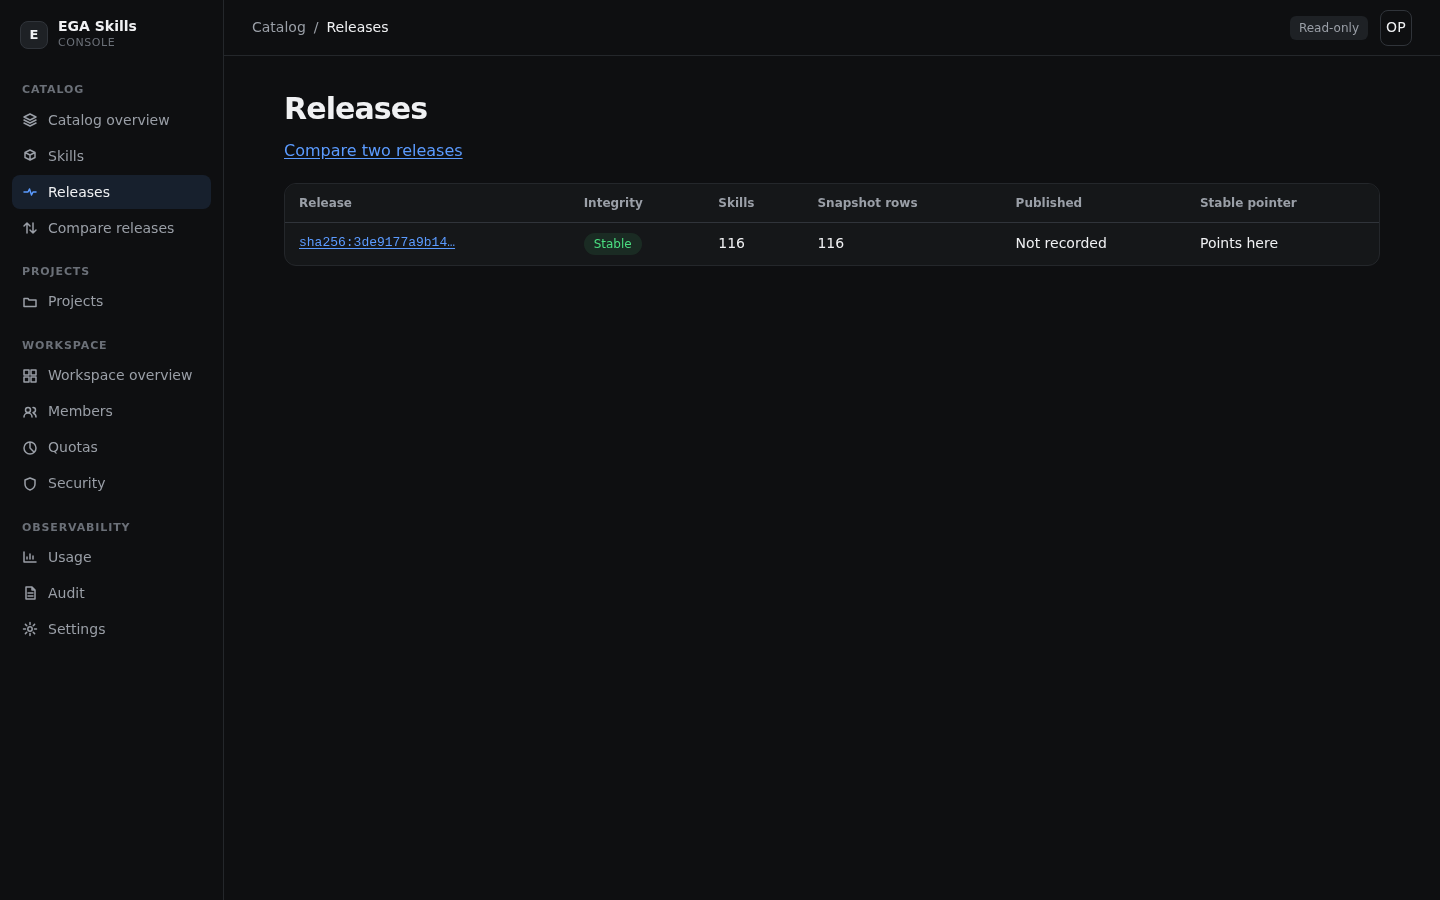
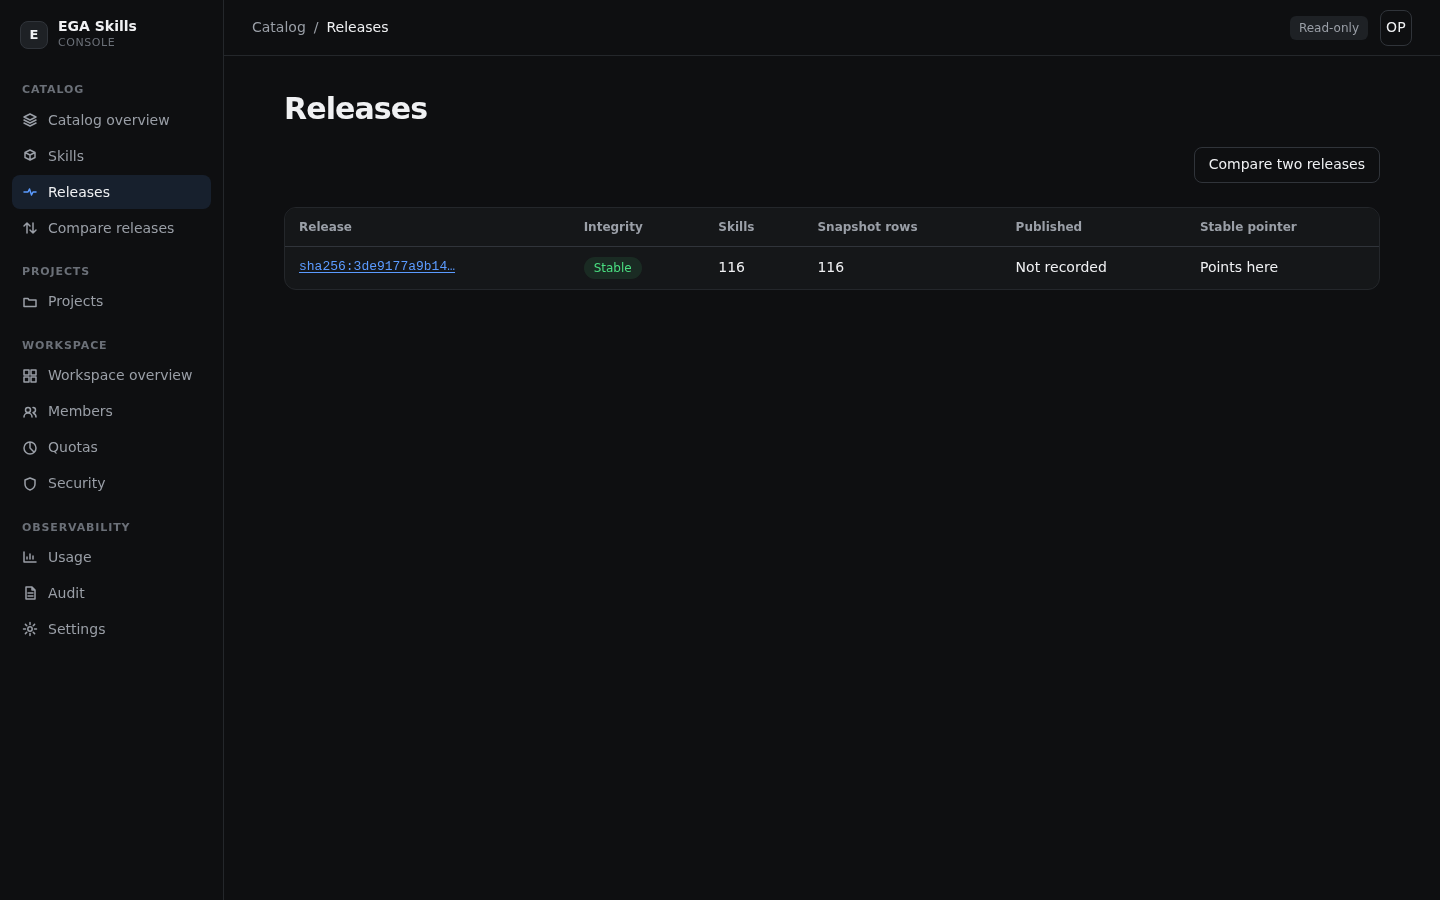
feat(web): make the release comparison a page action
The comparison link was rendered as the page's subtitle line, which reads as a
description of the page rather than a destination. It is now a secondary action
in the page's action row, matching the overview.

diff --git a/apps/web/src/pages/ReleasesPage.tsx b/apps/web/src/pages/ReleasesPage.tsx
@@ -84,9 +84,11 @@ export function ReleasesPage(): ReactNode {
 
   return (
     <>
-      <p className="page__lede">
-        <Link to="/releases/compare">Compare two releases</Link>
-      </p>
+      <div className="actions">
+        <Link className="button" to="/releases/compare">
+          Compare two releases
+        </Link>
+      </div>
       <ResourceSection
         state={resource.state}
         reload={resource.reload}
